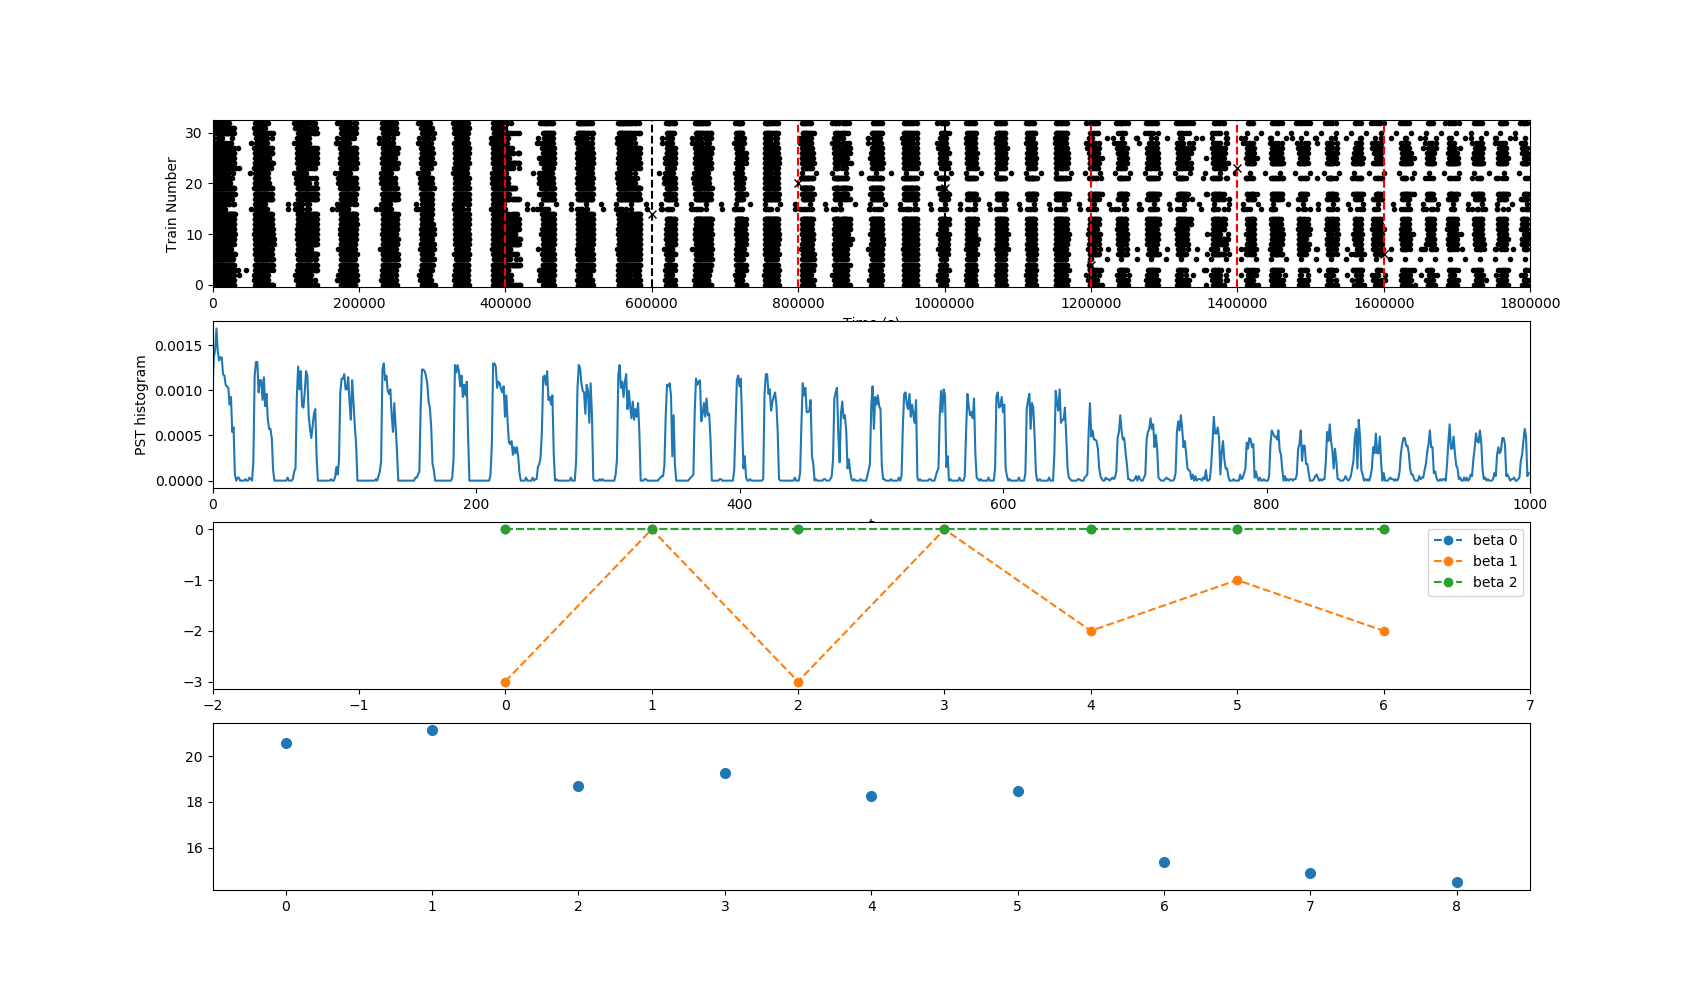
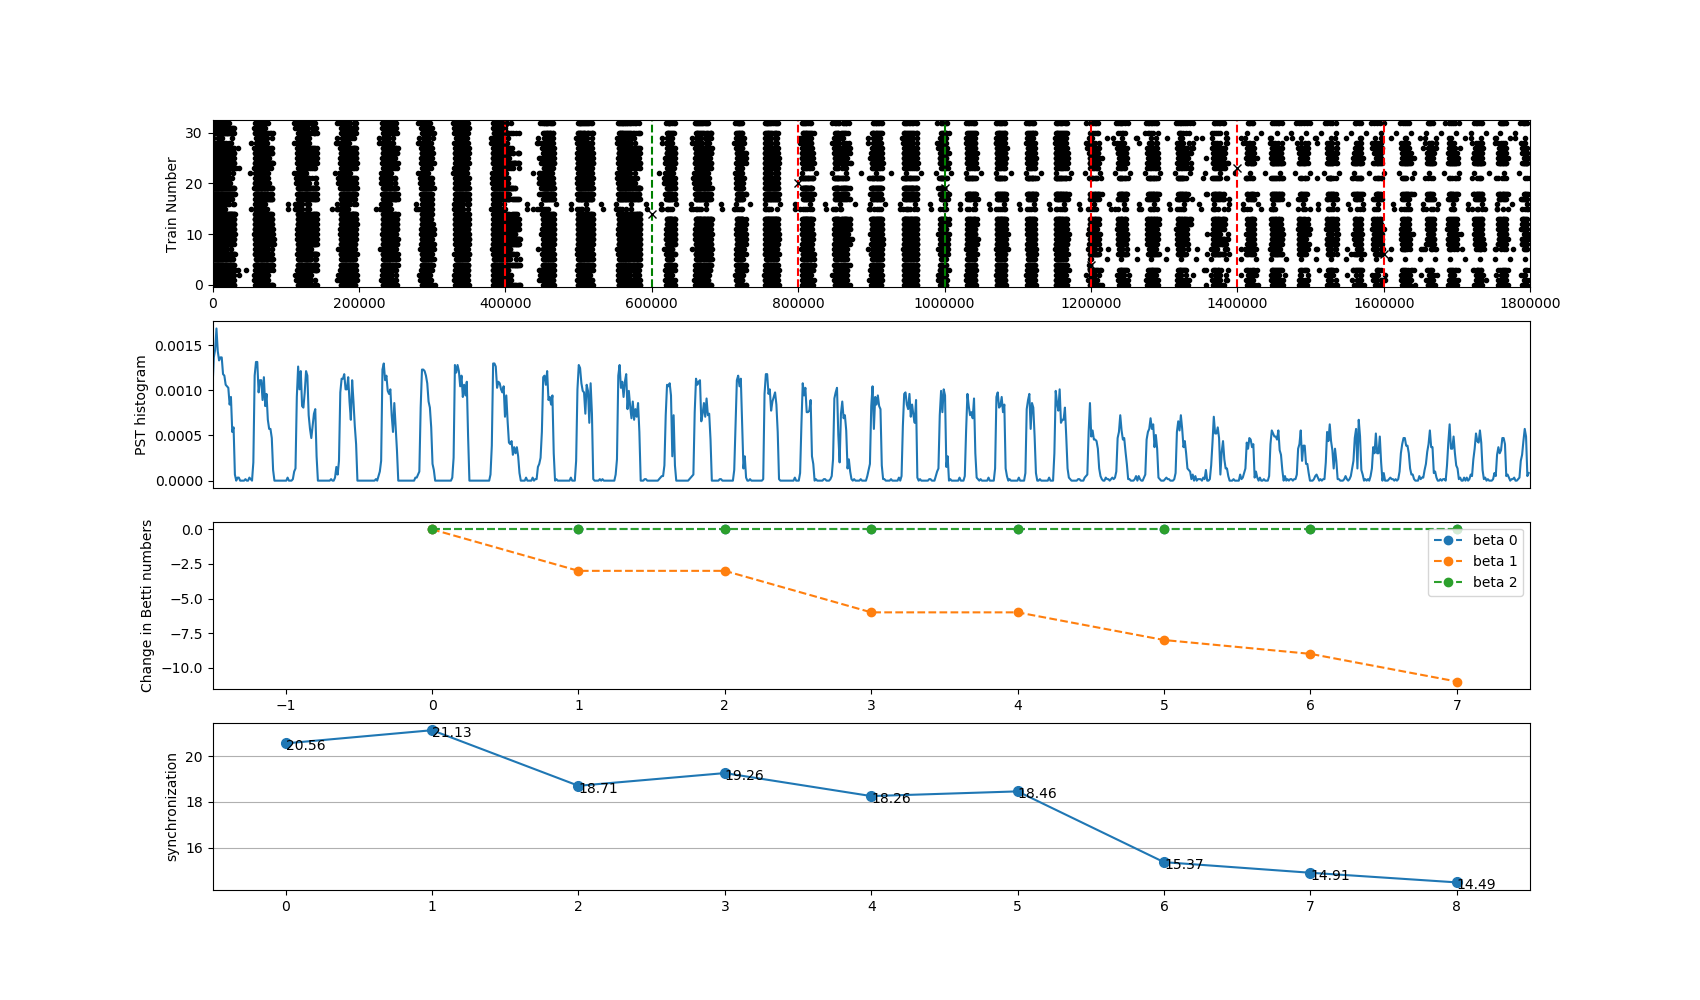
need to run a big sim to test if any huge sync stuff gets weird. then run many sims on many networks to gather data

diff --git a/code/SPIKE/keepdata.py b/code/SPIKE/keepdata.py
@@ -19,7 +19,7 @@ homXS = pickle.load(open("storeddata/" + matrix + "-homXS.p", "rb"))
 duration = len(train[0])
 singlerun = duration/(len(homXS)+2)
 
-print("--- plotting ---")
+print("--- storing data ---")
 
 # create list of spike times from raster
 spiketimes = []
@@ -31,61 +31,12 @@ for n in range(len(train)):
 
 st = th.make_trains(spiketimes)
 
-simulation = plt.figure(figsize=(17,10))
-simulation.add_subplot(4,1,1)
-th.plot_raster(st)
-for i in range(2,duration/singlerun):
-    if(homXS[i-2][1] == 'X'):
-        plt.axvline(x=(i)*singlerun, color='g', linestyle='--')
-    elif(homXS[i-2][1] == 'S'):
-        plt.axvline(x=(i)*singlerun, color='r', linestyle='--')
-    else:
-        plt.axvline(x=(i)*singlerun, color='b', linestyle='--')
-
-    plt.plot(i*singlerun, int(homXS[i-2][0]), marker="x", color="black")
-plt.xlabel('')
-
-
-
-# histogram for spikes
-simulation.add_subplot(4,1,2)
-spikeHist = th.psth(st, duration/1000)
-plt.plot(spikeHist[0])
-sys.stdout.write('\x1b[1A')
-sys.stdout.write('\x1b[2K')
-plt.ylabel("PST histogram")
-plt.xlim(xmin= 0,xmax=1000)
-plt.xticks([])
-
-# betti number plot
 difbetas = []
 for i in range(len(betas)):
     difbetas.append([])
     for c in range(len(betas[i])-1):
         difbetas[i].append(betas[i][c+1]-betas[i][c])
 
-homdec = []
-for b in range(len(difbetas)):
-    homdec.append([])
-    for i in range(len(difbetas[b])+1):
-        homdec[b].append(sum(difbetas[b][:i]))
-
-print(homdec[0])
-print(homdec[1])
-print(homdec[2])
-
-simulation.add_subplot(4,1,3)
-plt.ylabel("Change in Betti numbers")
-plt.plot(homdec[0], linestyle="--", marker="o", label="beta 0")
-plt.plot(homdec[1], linestyle="--", marker="o", label="beta 1")
-plt.plot(homdec[2], linestyle="--", marker="o", label="beta 2")
-plt.legend(loc='upper right')
-plt.xlim(xmin=-1.5,xmax=len(homdec[0])-0.5)
-
-
-# synchrony
-simulation.add_subplot(4,1,4)
-plt.ylabel("synchronization")
 
 chunk = duration/singlerun
 # print(chunk)
@@ -109,7 +60,7 @@ plt.plot(sync, linestyle="-", marker="o", markersize="7")
 plt.grid(which='both', axis='y')
 plt.xlim(xmin=-0.5,xmax=len(homXS)+1.5)
 for i in range(len(sync)):
-    plt.text(i, sync[i]-0.3, str(round(sync[i],2)))
+    plt.text(i+0.3, sync[i]+0.3, str(round(sync[i],2)))
 
 
 
